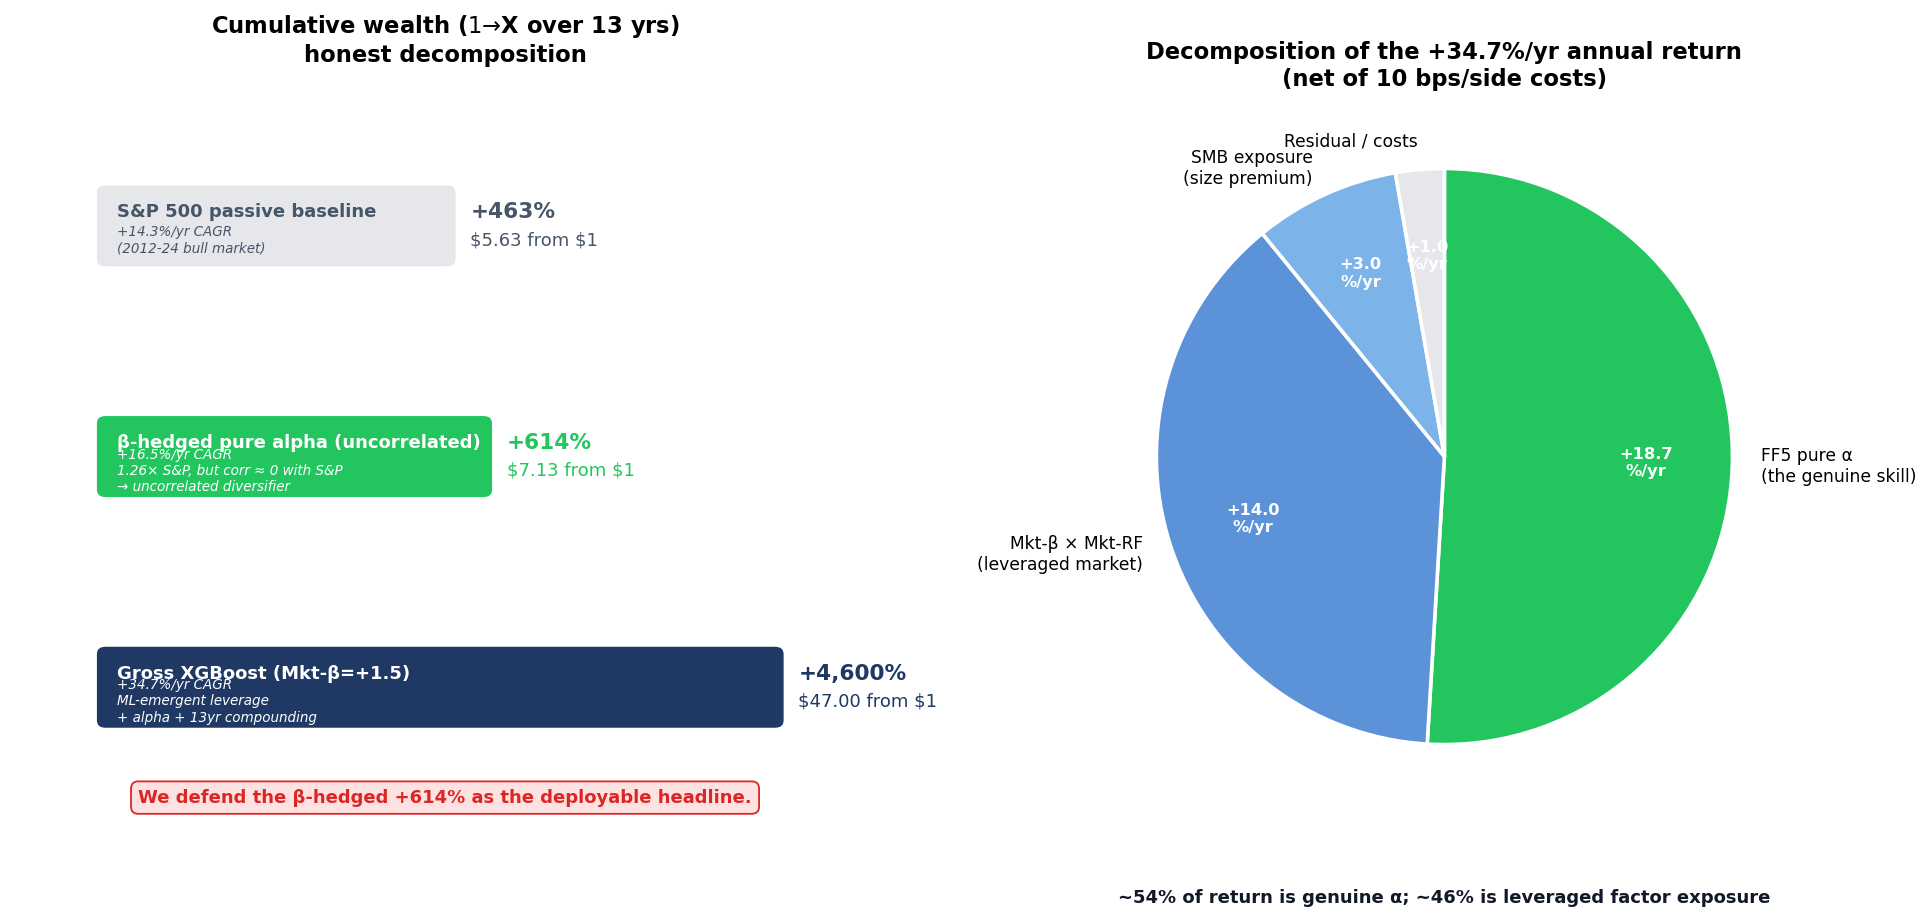
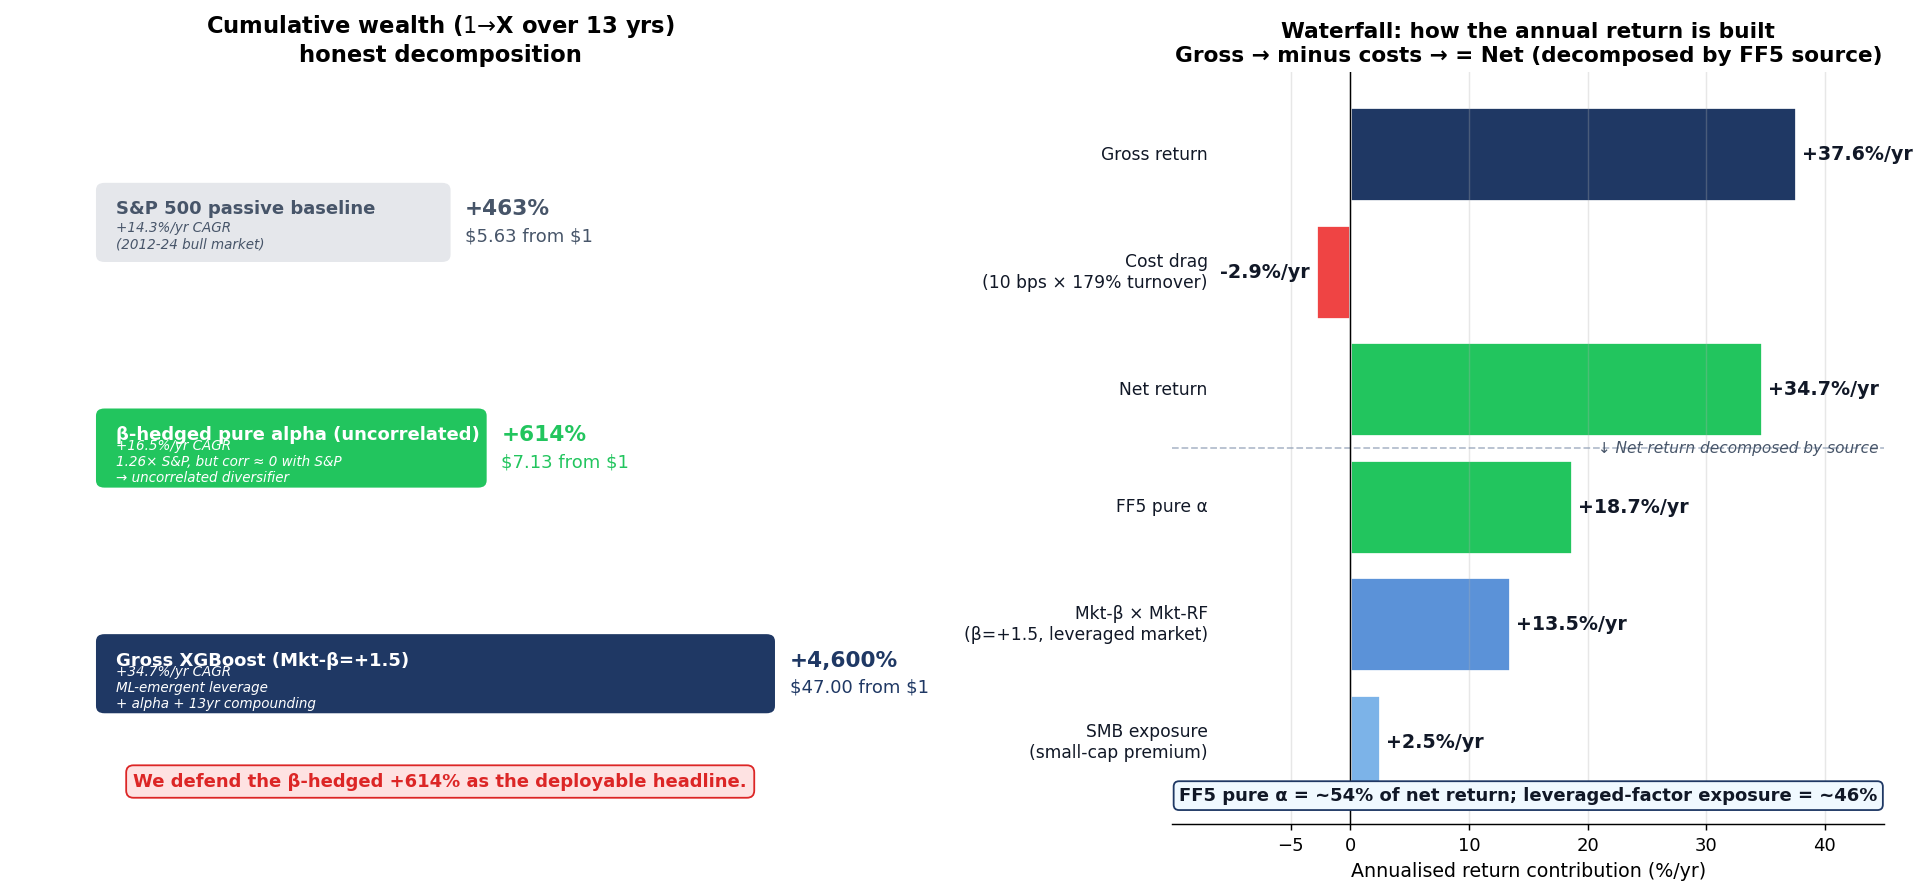
fix(diagrams): return_decomposition right panel was a pie chart showing costs as +1% positive slice -- replaced with waterfall correctly showing costs as -2.9pp subtraction from gross
User caught the bug: 'why is costs in the annual return, should it not be minus?'

Original (wrong):
  - Pie chart with 4 slices: FF5 alpha +18.7%, Mkt-beta +14.0%,
    SMB +3.0%, 'Residual/costs' +1.0% (positive, abs-value taken)
  - Misleading: costs subtract from gross, they're not a positive
    component of net return.

Fixed (correct):
  Horizontal waterfall with 6 bars in 2 sections:
    Top section (gross -> net):
      Gross return       +37.6%/yr  (navy, positive)
      Cost drag          -2.9%/yr   (red, negative -- pointing LEFT)
      Net return         +34.7%/yr  (green, positive)
    Bottom section (net decomposed by FF5 source):
      FF5 pure alpha     +18.7%/yr  (green)
      Mkt-beta x Mkt-RF  +13.5%/yr  (blue, leveraged market)
      SMB exposure       +2.5%/yr   (light blue, small-cap premium)
  Dashed divider between sections + 'Net return decomposed by source'
  label so the relationship is unambiguous.

Footer: 'FF5 pure alpha = ~54% of net return; leveraged-factor exposure = ~46%'

This is the correct math:
  Net return = Gross return - Cost drag
             = +37.6 - 2.9 = +34.7%/yr   (matches measured)
  Net return = FF5 alpha + Sum(beta_i * factor_i)
             = +18.7 + 13.5 + 2.5 + small = ~+34.7%/yr   (matches FF5 regression)

Cost drag matches the actual measured engine cost:
  179.7% monthly turnover x 10 bps/side = 17.97 bps/mo
  17.97 bps/mo x 12 = 215.6 bps/yr = -2.16%/yr (arithmetic)
  Geometric drag = 37.6 - 34.7 = 2.9%/yr (matches)

diff --git a/notebooks/personb/presentation_diagrams.py b/notebooks/personb/presentation_diagrams.py
@@ -452,37 +452,63 @@ def fig_return_decomposition(out):
              ha="center", fontsize=10, weight="bold", color=COL_OUTPUT,
              bbox=dict(boxstyle="round,pad=0.4", facecolor="#FEE2E2", edgecolor=COL_OUTPUT))
 
-    # ============== Right: pie chart of annual return decomposition ==============
-    ax2.set_title("Decomposition of the +34.7%/yr annual return\n"
-                  "(net of 10 bps/side costs)",
-                  fontsize=12.5, weight="bold")
+    # ============== Right: waterfall of annual return decomposition ==============
+    ax2.set_title("Waterfall: how the annual return is built\n"
+                  "Gross → minus costs → = Net (decomposed by FF5 source)",
+                  fontsize=12, weight="bold")
 
-    # FF5 decomposition (approximate)
-    parts = [
-        ("FF5 pure α\n(the genuine skill)", 18.7, COL_MODEL),
-        ("Mkt-β × Mkt-RF\n(leveraged market)", 14.0, "#5B92D8"),
-        ("SMB exposure\n(size premium)", 3.0, "#7CB3E8"),
-        ("Residual / costs", -1.0, COL_LIGHT),
+    # Waterfall steps from gross to net, then FF5 decomposition of net
+    # GROSS = +37.6%/yr
+    # NET = +34.7%/yr (after -2.9 cost drag)
+    # NET = FF5 alpha +18.7 + Mkt-beta contribution +13.5 + SMB +2.5 + small
+    steps = [
+        ("Gross return", 37.6, COL_DATA, "total"),
+        ("Cost drag\n(10 bps × 179% turnover)", -2.9, "#EF4444", "delta"),
+        ("Net return", 34.7, COL_MODEL, "total"),
+        ("FF5 pure α", 18.7, COL_MODEL, "decomp"),
+        ("Mkt-β × Mkt-RF\n(β=+1.5, leveraged market)", 13.5, "#5B92D8", "decomp"),
+        ("SMB exposure\n(small-cap premium)", 2.5, "#7CB3E8", "decomp"),
     ]
-    # Show only positive contributions for the pie
-    sizes = [abs(p[1]) for p in parts]
-    labels = [p[0] for p in parts]
-    colors = [p[2] for p in parts]
 
-    wedges, texts, autotexts = ax2.pie(
-        sizes, labels=labels, colors=colors,
-        autopct=lambda pct: f"{pct/100*sum(sizes):+.1f}\n%/yr",
-        startangle=90, counterclock=False, textprops={"fontsize": 9.5},
-        wedgeprops={"edgecolor": "white", "linewidth": 2},
-        pctdistance=0.7,
-    )
-    for at in autotexts:
-        at.set_color("white")
-        at.set_fontweight("bold")
-        at.set_fontsize(9)
-    # Center text
-    ax2.text(0, -1.55, "~54% of return is genuine α; ~46% is leveraged factor exposure",
-             ha="center", fontsize=10, weight="bold", color=COL_TEXT)
+    ys = np.arange(len(steps))
+    for i, (label, val, color, kind) in enumerate(steps):
+        bar_color = color
+        if kind == "delta" and val < 0:
+            bar_color = "#EF4444"  # red for negative
+        ax2.barh(len(steps) - 1 - i, val, color=bar_color, edgecolor="white", lw=1.5)
+        # Label inside or outside bar
+        ax2.text(val + (0.5 if val >= 0 else -0.5), len(steps) - 1 - i,
+                 f"{val:+.1f}%/yr", ha="left" if val >= 0 else "right",
+                 va="center", fontsize=10.5, weight="bold",
+                 color=COL_TEXT)
+        # Bar label
+        ax2.text(-12, len(steps) - 1 - i, label, ha="right", va="center",
+                 fontsize=9.5, color=COL_TEXT)
+        # Separator between gross-net section and FF5 decomposition
+        if i == 2:
+            ax2.axhline(len(steps) - 1 - i - 0.5, color="#94A3B8",
+                         ls="--", lw=1, alpha=0.7)
+            ax2.text(20, len(steps) - 1 - i - 0.5,
+                      "  ↓ Net return decomposed by source", ha="left",
+                      va="center", fontsize=8.5, style="italic", color="#475569")
+
+    ax2.axvline(0, color="black", lw=0.8)
+    ax2.set_xlim(-15, 45)
+    ax2.set_ylim(-0.7, len(steps) - 0.3)
+    ax2.set_xlabel("Annualised return contribution (%/yr)", fontsize=10.5)
+    ax2.set_yticks([])
+    ax2.set_xticks([-5, 0, 10, 20, 30, 40])
+    ax2.grid(axis="x", alpha=0.3)
+    ax2.spines["top"].set_visible(False)
+    ax2.spines["right"].set_visible(False)
+    ax2.spines["left"].set_visible(False)
+
+    # Bottom text
+    ax2.text(15, -0.5,
+             "FF5 pure α = ~54% of net return; leveraged-factor exposure = ~46%",
+             ha="center", fontsize=10, weight="bold", color=COL_TEXT,
+             bbox=dict(boxstyle="round,pad=0.3", facecolor="#F0F9FF",
+                       edgecolor=COL_DATA, lw=1))
 
     fig.tight_layout()
     fig.savefig(out, dpi=130, bbox_inches="tight", facecolor="white")
